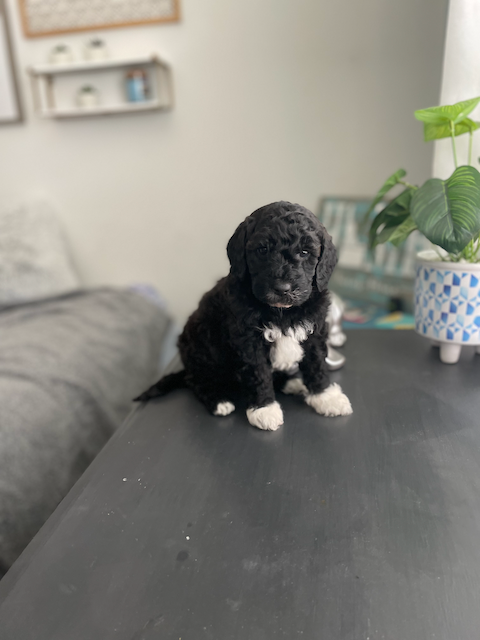
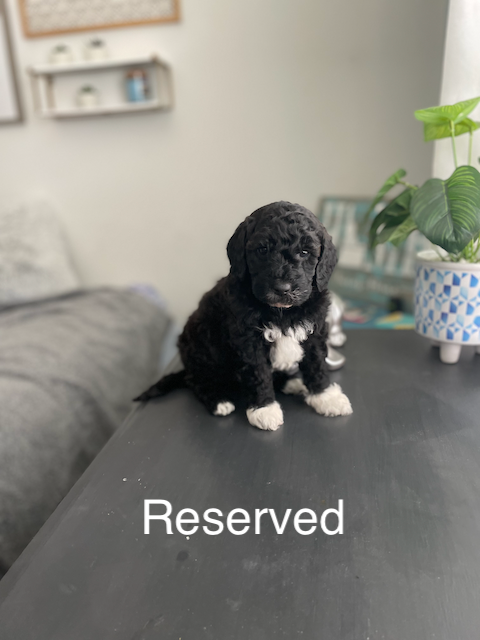
Dancer is reserved

Changed region(s): [[0.2812, 0.7812, 0.7188, 0.8438]]

diff --git a/index.html b/index.html
@@ -164,14 +164,10 @@
                   </div>
                   <div class="col">
                     <div class="card h-100" id="dancer">
-                      <a href="dancer.html">
                         <img src="puppies/dancer-new.png" class="card-img-top" alt="Dancer">
-                      </a>
                       <div class="card-body">
                         <h1 class="card-title text-center">
-                        <a href="dancer.html">
                             Dancer (male)</h1>
-                        </a>
                       </div>
                     </div>
                   </div>
